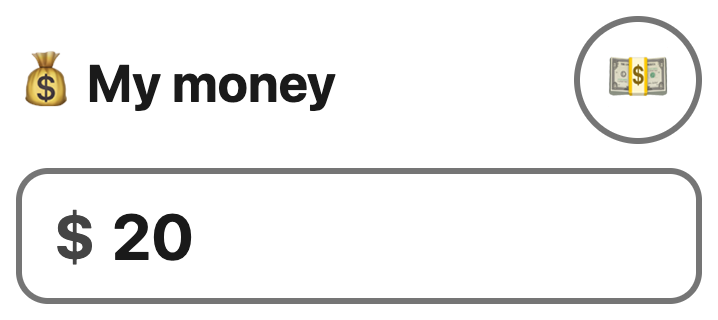
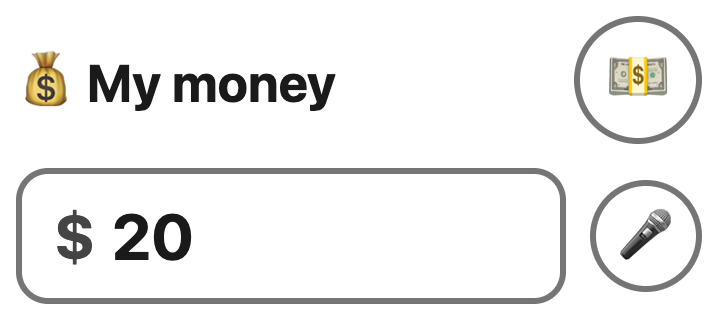
feat: voice entry via a Say-your-money dialog
The money fields' decimal keypad has no dictation key on iOS or Android
(Gboard shows "This app doesn't support voice input"), so the keyboard
mic the guide promised could never appear. Each money box now has a 🎤
button that opens a small dialog with a plain text input — the full
keyboard opens there with its mic available — and speak.js parses the
dictated text (digits, "10 dollars 50 cents", word numbers like "twelve
fifty") into a clean amount for the field.

The Web Speech API was rejected because it doesn't work in installed
home-screen PWAs on iOS, which is exactly how this app is meant to run.

Guide rewritten to match with a new dialog screenshot, all app
screenshots regenerated, cache bumped to v10.

Changed region(s): [[0.7354, 0.5, 0.9805, 0.9688]]

diff --git a/public/js/speak.js b/public/js/speak.js
@@ -1,0 +1,117 @@
+// Voice entry. The money fields use inputmode="decimal", and neither Gboard
+// nor the iOS keyboard offers voice typing on the number pad — so this dialog
+// opens a plain text box (full keyboard, mic available), and whatever gets
+// dictated is parsed back into a clean amount for the numeric field.
+
+import { formatCents } from "./money.js";
+
+let els = null;
+let onAmount = null;
+
+export function initSpeak(elements) {
+  els = elements;
+  els.input.addEventListener("input", preview);
+  els.input.addEventListener("keydown", (e) => {
+    if (e.key === "Enter") {
+      e.preventDefault();
+      finish();
+    }
+  });
+  els.done.addEventListener("click", finish);
+  els.cancel.addEventListener("click", () => els.dialog.close());
+}
+
+// cb receives the amount as field text, e.g. "12.50"
+export function openSpeak(cb) {
+  onAmount = cb;
+  els.input.value = "";
+  preview();
+  els.dialog.showModal();
+  els.input.focus(); // same tap gesture, so the keyboard opens right away
+}
+
+function preview() {
+  const cents = speechToCents(els.input.value);
+  els.heard.textContent = cents == null ? " " : `That is ${formatCents(cents)}`;
+}
+
+function finish() {
+  const cents = speechToCents(els.input.value);
+  if (cents == null) {
+    els.heard.textContent = "Say a number, like “ten dollars”";
+    return;
+  }
+  els.dialog.close();
+  onAmount?.(formatCents(cents, ""));
+}
+
+// Dictated speech → integer cents, or null when no number can be heard in it.
+// Dictation mostly hands us digits already ("$12.50", "12:50", "10 dollars
+// 50 cents") but can leave word numbers ("twelve fifty"), so both are handled.
+export function speechToCents(raw) {
+  if (raw == null) return null;
+  let s = String(raw)
+    .toLowerCase()
+    .replace(/[,$]/g, "")
+    .replace(/(\d+):(\d{2})/g, "$1.$2") // "twelve fifty" often arrives as "12:50"
+    .trim();
+  s = wordsToDigits(s);
+
+  const hasDollar = /dollar|buck/.test(s);
+  const hasCent = /cent/.test(s);
+  const nums = s.match(/\d*\.\d+|\d+/g);
+  if (!nums) return null;
+
+  const first = parseFloat(nums[0]);
+  if (hasCent && !hasDollar) return Math.round(first); // "50 cents"
+  if (nums.length >= 2 && !nums[0].includes(".") && !nums[1].includes(".")) {
+    const second = parseFloat(nums[1]);
+    // "10 50" / "10 dollars 50 cents" → dollars + cents
+    if (second < 100) return Math.round(first * 100 + second);
+  }
+  return Math.round(first * 100);
+}
+
+const UNITS = {
+  zero: 0, one: 1, two: 2, three: 3, four: 4, five: 5, six: 6, seven: 7,
+  eight: 8, nine: 9, ten: 10, eleven: 11, twelve: 12, thirteen: 13,
+  fourteen: 14, fifteen: 15, sixteen: 16, seventeen: 17, eighteen: 18,
+  nineteen: 19,
+};
+const TENS = {
+  twenty: 20, thirty: 30, forty: 40, fifty: 50, sixty: 60, seventy: 70,
+  eighty: 80, ninety: 90,
+};
+
+// "twelve fifty" → "12 50", "one hundred and five" → "100 5" (the caller's
+// dollars-plus-cents rule puts split numbers back together where it applies).
+function wordsToDigits(s) {
+  const out = [];
+  let cur = null;
+  const flush = () => {
+    if (cur != null) out.push(String(cur));
+    cur = null;
+  };
+  for (const tok of s.split(/\s+/)) {
+    const word = tok.replace(/-/g, ""); // "twenty-five"
+    if (word in TENS) {
+      // a tens word never continues a small number: "twelve fifty" is 12 | 50
+      if (cur != null && cur % 100 !== 0) flush();
+      cur = (cur ?? 0) + TENS[word];
+    } else if (word in UNITS) {
+      if (cur != null && cur < 20) flush(); // "five five" is 5 | 5
+      cur = (cur ?? 0) + UNITS[word];
+    } else if (word === "hundred") {
+      cur = (cur ?? 1) * 100;
+    } else if (word === "thousand") {
+      cur = (cur ?? 1) * 1000;
+    } else if (word === "and" || word === "a") {
+      continue; // "one hundred and five", "a hundred"
+    } else {
+      flush();
+      out.push(tok);
+    }
+  }
+  flush();
+  return out.join(" ");
+}

diff --git a/public/guide.html b/public/guide.html
@@ -173,8 +173,8 @@
 
     <figure>
       <img src="/img/guide/screen-money.png" width="718" height="320"
-           alt="The My money part of the app. The heading says My money, with a round button showing bank notes at its right. Below is a box with $20 typed in it.">
-      <figcaption>Type your money in the box. The round 💵 button is for counting notes and coins.</figcaption>
+           alt="The My money part of the app. The heading says My money, with a round button showing bank notes at its right. Below is a box with $20 typed in it, and a round microphone button beside the box.">
+      <figcaption>Type your money in the box. The round 💵 button is for counting notes and coins. The round 🎤 button is for saying the amount.</figcaption>
     </figure>
 
     <p>Not sure how much you have? Tap the round <strong>💵</strong> button
@@ -227,15 +227,25 @@
     <!-- ============================================================ -->
     <h2><span class="step-icon" aria-hidden="true">🎤</span> Speak instead of typing</h2>
 
-    <p>You do not have to type. Your phone's keyboard has a
-    <strong>microphone</strong> button. You can say the money out loud.</p>
+    <p>You do not have to type. Every money box has a round
+    <strong>🎤</strong> button next to it. You can say the money out
+    loud.</p>
 
     <ol class="steps">
-      <li>Tap a money box in the app. The keyboard opens.</li>
+      <li>Tap the round <strong>🎤</strong> button next to a money box.
+          A small <strong>Say your money</strong> window opens, and the
+          keyboard appears.</li>
       <li>Tap the <strong>microphone 🎤</strong> button on the keyboard.</li>
       <li>Say the amount. For example: <strong>“ten dollars fifty”</strong>.</li>
-      <li>Tap the microphone again to stop. The number appears in the box.</li>
+      <li>The window shows the money it heard. Tap <strong>✔ Done</strong>
+          and the number goes into the box.</li>
     </ol>
+
+    <figure>
+      <img src="/img/guide/screen-speak.png" width="750" height="1624"
+           alt="The Say your money window on top of the app. It says: Tap the microphone on your keyboard, then say the amount. A text box shows the words ten dollars fifty, and below it the app says: That is $10.50. There are Cancel and Done buttons.">
+      <figcaption>Say the amount, check it, then tap ✔ Done</figcaption>
+    </figure>
 
     <svg class="illustration" viewBox="0 0 320 240" role="img"
          aria-label="Drawing of a phone keyboard. On iPhone the microphone button is at the bottom right, next to the space bar. On Android it is at the top right of the keyboard.">

diff --git a/public/css/styles.css b/public/css/styles.css
@@ -114,6 +114,31 @@ h2 {
 }
 
 /* ---------- money input ---------- */
+.money-row {
+  display: flex;
+  align-items: center;
+  gap: 12px;
+}
+.money-row .amount-field { flex: 1; }
+
+/* voice entry: sits beside every money box */
+.mic-btn {
+  flex: none;
+  width: var(--target-small);
+  height: var(--target-small);
+  font-size: 26px;
+  line-height: 1;
+  background: #fff;
+  border: 3px solid var(--color-border);
+  border-radius: 50%;
+  cursor: pointer;
+}
+.mic-btn:active { background: #e3f2fd; }
+.mic-btn:focus-visible {
+  outline: 3px solid var(--color-primary);
+  outline-offset: 2px;
+}
+
 .amount-field {
   display: flex;
   align-items: center;
@@ -457,6 +482,57 @@ h2 {
   100% { transform: scale(1); }
 }
 .picker-total.pop { animation: pop 150ms ease-out; }
+
+/* ---------- speak dialog ---------- */
+.speak {
+  width: min(92vw, 360px);
+  margin: auto;
+  padding: 20px;
+  border: none;
+  border-radius: var(--radius);
+  background: var(--color-bg);
+  color: var(--color-text);
+}
+.speak::backdrop { background: rgba(0, 0, 0, 0.45); }
+.speak-title {
+  margin: 0 0 8px;
+  font-size: 26px;
+}
+.speak-hint {
+  margin: 0 0 14px;
+  font-size: 17px;
+  color: var(--color-muted);
+}
+.speak-input {
+  width: 100%;
+  min-height: var(--target);
+  padding: 8px 14px;
+  font-family: inherit;
+  font-size: 22px;
+  font-weight: 700;
+  color: var(--color-text);
+  background: #fff;
+  border: 3px solid var(--color-border);
+  border-radius: var(--radius);
+}
+.speak-input:focus {
+  border-color: var(--color-primary);
+  outline: 3px solid var(--color-primary);
+  outline-offset: 2px;
+}
+.speak-heard {
+  min-height: 30px;
+  margin: 12px 0 16px;
+  font-size: 22px;
+  font-weight: 700;
+  color: var(--color-primary-dark);
+}
+.speak-actions {
+  display: flex;
+  justify-content: flex-end;
+  gap: 12px;
+}
+.speak-actions .done-btn { min-height: var(--target); }
 
 button:focus-visible,
 .note-btn:focus-visible,

diff --git a/public/index.html b/public/index.html
@@ -60,6 +60,10 @@
           <input id="money-input" type="text" inputmode="decimal" autocomplete="off"
                  enterkeyhint="done" placeholder="0" aria-label="How much money I have, in dollars">
         </label>
+        <button id="speak-money" class="mic-btn" type="button"
+                aria-label="Say how much money I have" title="Say my money">
+          <span aria-hidden="true">🎤</span>
+        </button>
       </div>
       <p id="money-chip" class="chip" hidden><span aria-hidden="true">💵</span> from my notes and coins</p>
     </section>
@@ -125,6 +129,24 @@
 
     <h3 class="picker-group-label">Coins</h3>
     <div id="coin-grid" class="coin-grid"></div>
+  </dialog>
+
+  <!-- Speak: a plain text box so the full keyboard (with its mic) opens.
+       The money fields' decimal keypad has no voice key on iOS or Android,
+       so dictation has to happen here and get parsed back into the field. -->
+  <dialog id="speak" class="speak" aria-labelledby="speak-title">
+    <h2 id="speak-title" class="speak-title"><span aria-hidden="true">🎤</span> Say your money</h2>
+    <p class="speak-hint">Tap the microphone on your keyboard, then say the amount.</p>
+    <input id="speak-input" class="speak-input" type="text" autocomplete="off"
+           enterkeyhint="done" placeholder="ten dollars fifty"
+           aria-label="Say or type the amount">
+    <p id="speak-heard" class="speak-heard" role="status">&nbsp;</p>
+    <div class="speak-actions">
+      <button id="speak-cancel" class="ghost-btn" type="button">Cancel</button>
+      <button id="speak-done" class="done-btn" type="button">
+        <span aria-hidden="true">✔</span> Done
+      </button>
+    </div>
   </dialog>
 
   <script type="module" src="/js/app.js"></script>

diff --git a/public/js/app.js b/public/js/app.js
@@ -4,6 +4,7 @@ import { parseToCents, formatCents, sum } from "./money.js";
 import { initItems, setItems, getItems, itemsTotalCents, hasAnyPrice, addItem, restoreItem } from "./items.js";
 import { initResult, renderResult } from "./result.js";
 import { initPicker, openPicker } from "./note-picker.js";
+import { initSpeak, openSpeak } from "./speak.js";
 import { load, save } from "./storage.js";
 
 const $ = (id) => document.getElementById(id);
@@ -86,6 +87,21 @@ moneyInput.addEventListener("blur", () => {
 $("open-picker").addEventListener("click", () => {
   openPicker(state.moneySource === "notes" ? state.pickedNotes : []);
 });
+
+initSpeak({
+  dialog: $("speak"),
+  input: $("speak-input"),
+  heard: $("speak-heard"),
+  done: $("speak-done"),
+  cancel: $("speak-cancel"),
+});
+
+$("speak-money").addEventListener("click", () =>
+  openSpeak((text) => {
+    moneyInput.value = text;
+    // run the normal typing path: sets state, drops stale picked notes
+    moneyInput.dispatchEvent(new Event("input"));
+  }));
 
 $("add-item").addEventListener("click", addItem);
 

diff --git a/public/js/items.js b/public/js/items.js
@@ -2,6 +2,7 @@
 // Empty or unreadable rows simply count as $0 — never a validation error.
 
 import { parseToCents, sum } from "./money.js";
+import { openSpeak } from "./speak.js";
 
 let listEl;
 let handlers = {};
@@ -87,6 +88,17 @@ function render() {
       handlers.onChange();
     });
 
+    const speak = document.createElement("button");
+    speak.type = "button";
+    speak.className = "mic-btn";
+    speak.textContent = "🎤";
+    speak.setAttribute("aria-label", `Say the price of thing ${i + 1}`);
+    speak.addEventListener("click", () =>
+      openSpeak((text) => {
+        input.value = text;
+        input.dispatchEvent(new Event("input"));
+      }));
+
     const remove = document.createElement("button");
     remove.type = "button";
     remove.className = "remove-btn";
@@ -95,7 +107,7 @@ function render() {
     remove.addEventListener("click", () => removeItem(item.id));
 
     label.append(prefix, input);
-    li.append(label, remove);
+    li.append(label, speak, remove);
     listEl.append(li);
   });
 }

diff --git a/public/sw.js b/public/sw.js
@@ -2,18 +2,20 @@
 // launch picks up new files; firebase.json serves this file with no-cache.
 // "/guide" (not "/guide.html"): Hosting cleanUrls 301s the .html form, and a
 // cached redirected response breaks offline navigations.
-const CACHE = "afford-v9";
+const CACHE = "afford-v10";
 const ASSETS = [
   "/",
   "/index.html",
   "/guide",
   "/img/guide/screen-money.png",
+  "/img/guide/screen-speak.png",
   "/img/guide/screen-yes.png",
   "/img/guide/screen-no.png",
   "/img/guide/screen-picker.png",
   "/css/styles.css",
   "/js/app.js",
   "/js/money.js",
+  "/js/speak.js",
   "/js/currency-data.js",
   "/js/note-picker.js",
   "/js/items.js",

diff --git a/README.md b/README.md
@@ -114,9 +114,15 @@ When releasing a new version, bump the `CACHE` version string in
 
 ## Platform notes
 
-- The money inputs use `type="text"` + `inputmode="decimal"`, so the numeric
-  keyboard appears on mobile *and* the OS keyboard microphone (dictation)
-  still works; dictated text like "10 dollars 50" is parsed forgivingly.
+- The money inputs use `type="text"` + `inputmode="decimal"` for the big
+  numeric keyboard — but that keyboard has **no dictation key** on iOS or
+  Android (Gboard shows "This app doesn't support voice input"). Voice entry
+  therefore goes through the 🎤 button next to each money box: it opens the
+  `#speak` dialog whose plain text input summons the full keyboard (mic
+  available), and `js/speak.js` parses the dictated text — digits, "10
+  dollars 50 cents", word numbers like "twelve fifty" — into a clean amount.
+  (The Web Speech API was rejected because it doesn't work in installed
+  home-screen PWAs on iOS.)
 - `<dialog>` requires iOS ≥ 15.4 / modern Android.
 - Haptic tick on note taps uses `navigator.vibrate` (not supported on iOS;
   silently skipped).
